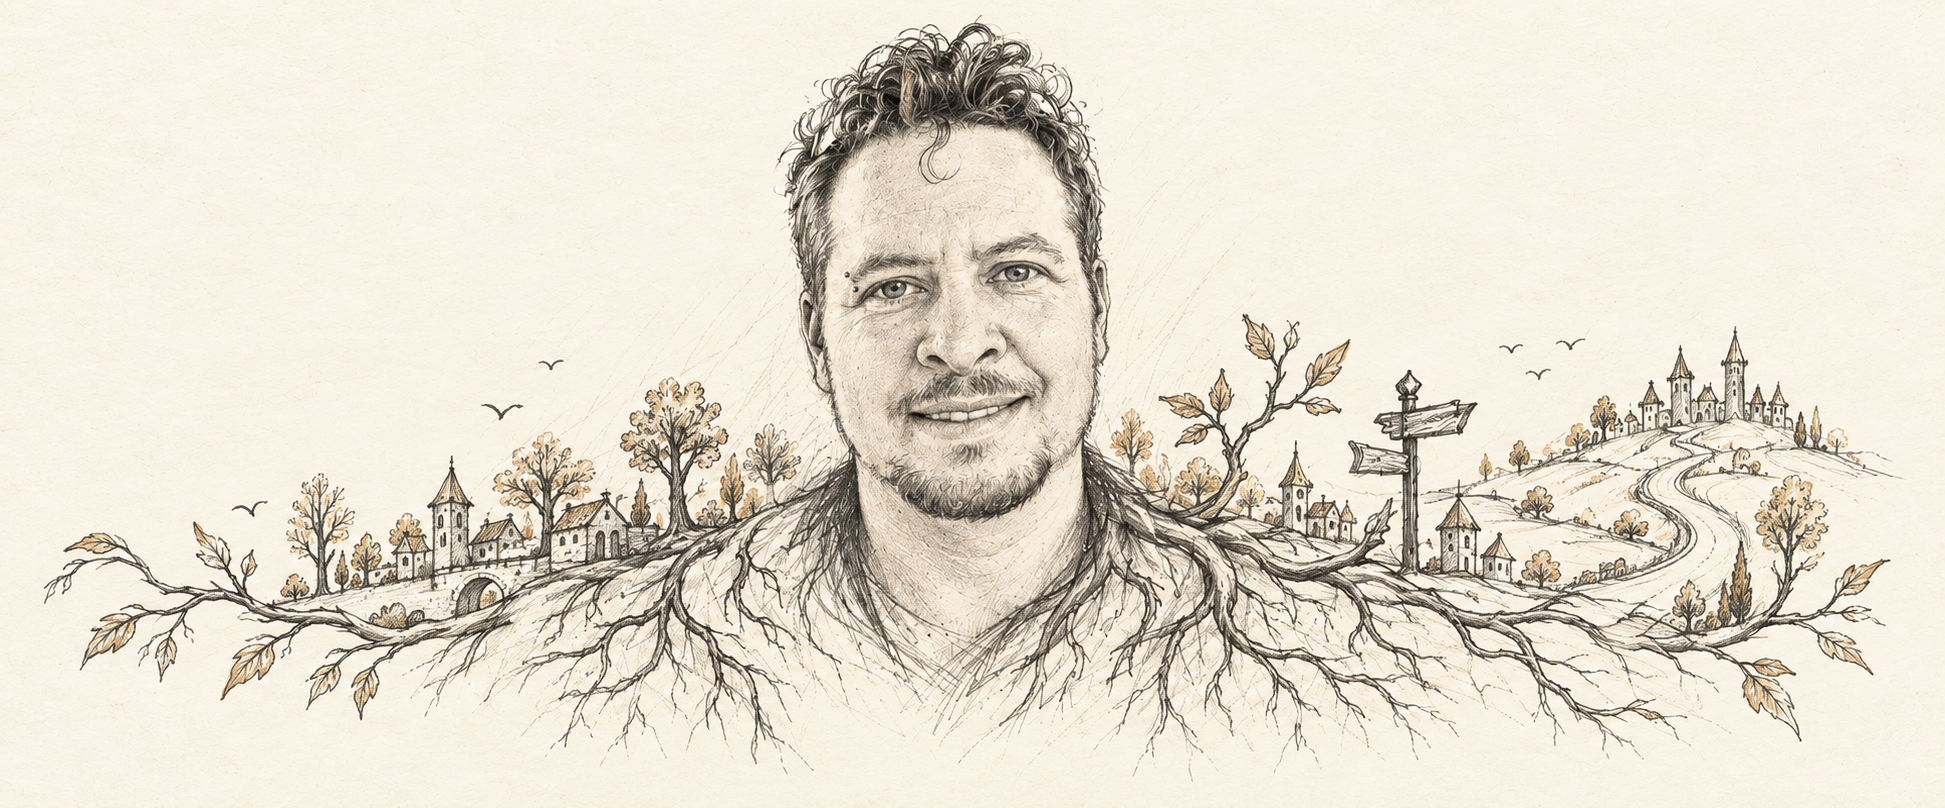
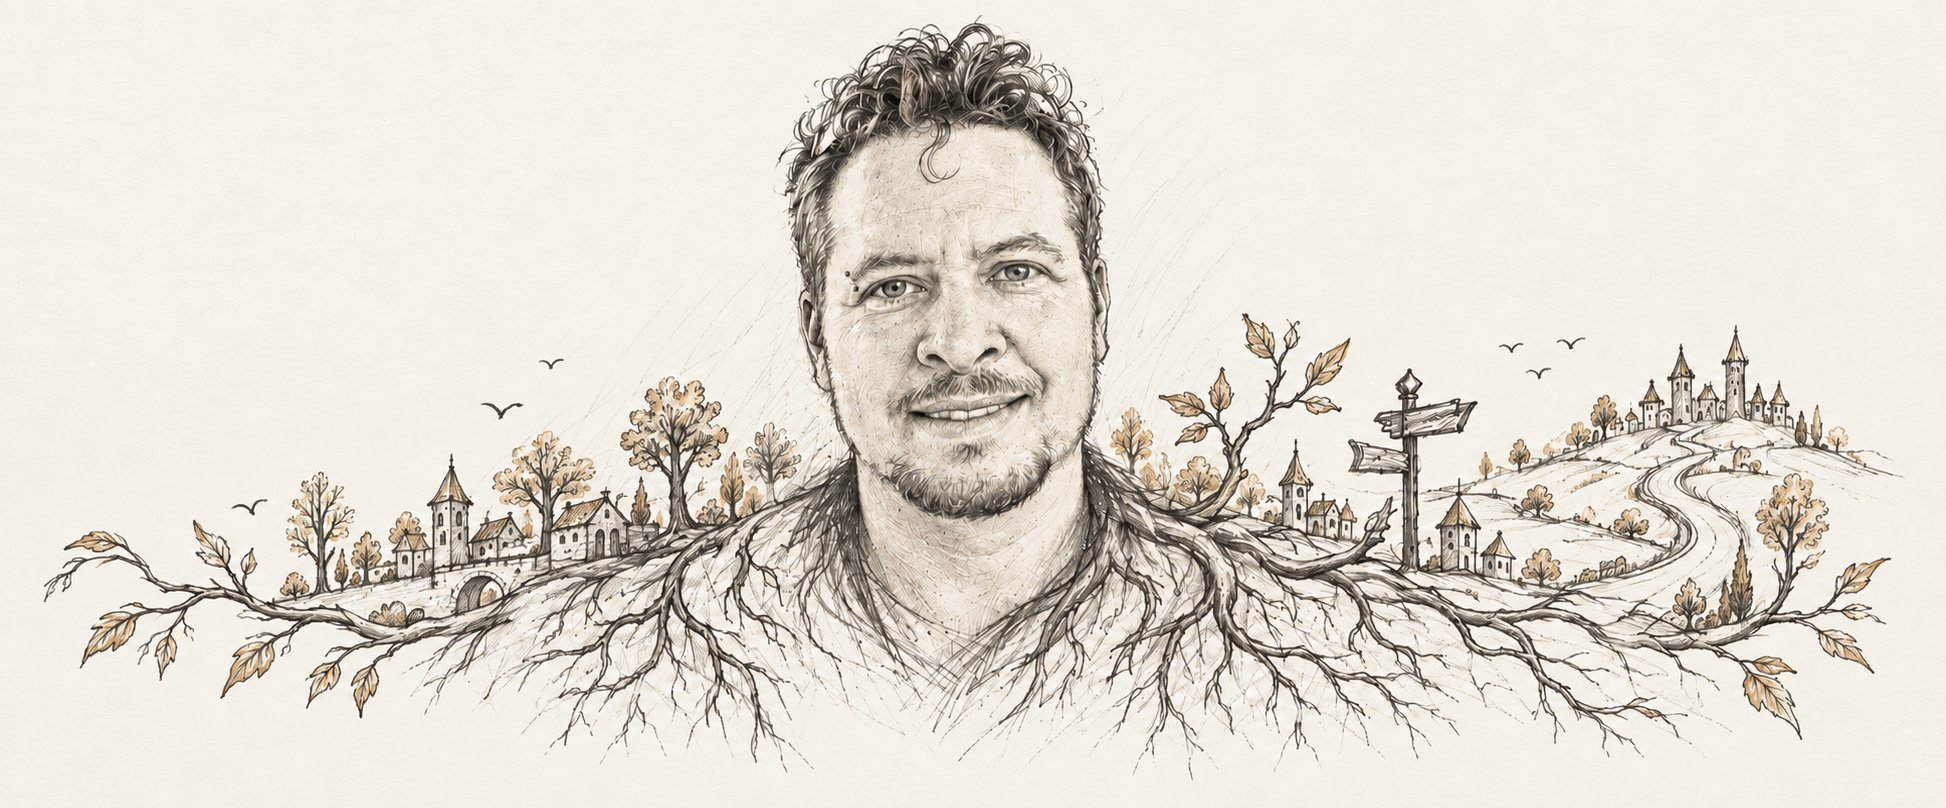
feat: refresh portfolio project art

Changed region(s): [[0.0308, 0.0309, 0.9871, 0.9282], [0.2468, 0.495, 0.2776, 0.526], [0.0, 0.7116, 0.0308, 0.7426]]

diff --git a/index.html b/index.html
@@ -28,7 +28,7 @@
         <a class="text-link" href="cv/index.html">CV <span aria-hidden="true">↗</span></a>
       </div>
       <figure class="hero-art">
-        <img src="assets/vincent-sketch-wide.png" alt="Graphite portrait of Vincent growing into tree roots, roads, and a small medieval city" width="1920" height="768" fetchpriority="high">
+        <img src="assets/vincent-sketch-wide.png" alt="Graphite portrait of Vincent growing into tree roots, roads, and a small medieval city" width="1946" height="808" fetchpriority="high">
       </figure>
     </section>
 
@@ -43,7 +43,7 @@
           <a href="groot/">
             <div class="software-project__meta"><span>01</span><span>Groot</span></div>
             <div class="software-project__copy"><h3>Groot</h3><p>A small system for turning effort into something you can see.</p><span class="project-link">Open project ↗</span></div>
-            <figure class="software-project__visual"><img src="assets/groot-growth-rings.png" alt="Groot growth rings interface" loading="lazy"></figure>
+            <figure class="software-project__visual"><img src="assets/groot-banner.png" alt="Abstracted Groot workout and habit dashboard in forest green and amber" loading="lazy"></figure>
           </a>
         </article>
 
@@ -51,7 +51,7 @@
           <a href="uermend/">
             <div class="software-project__meta"><span>02</span><span>Uermend</span></div>
             <div class="software-project__copy"><h3>Uermend</h3><p>A city builder about roads, resources, and the places they make.</p><span class="project-link">Open project ↗</span></div>
-            <figure class="software-project__visual"><img src="assets/uermend-builder-detail.png" alt="Uermend builder interface showing a settlement detail" loading="lazy"></figure>
+            <figure class="software-project__visual"><img src="assets/uermend-banner.png" alt="Snowy Uermend settlement with roads, houses, lanterns, and a river" loading="lazy"></figure>
           </a>
         </article>
 
@@ -59,7 +59,7 @@
           <a href="qubit/">
             <div class="software-project__meta"><span>03</span><span>Qubit</span></div>
             <div class="software-project__copy"><h3>Qubit</h3><p>A desktop control room for servers, files, and the media around them.</p><span class="project-link">Open project ↗</span></div>
-            <figure class="software-project__visual software-project__visual--qubit"><img src="assets/qubit-icon.png" alt="Qubit icon" loading="lazy"></figure>
+            <figure class="software-project__visual software-project__visual--qubit"><img src="assets/qubit-banner.png" alt="Qubit control room with file lists, media thumbnails, and server status panels" loading="lazy"></figure>
           </a>
         </article>
 
@@ -67,7 +67,7 @@
           <a href="vindicator/">
             <div class="software-project__meta"><span>04</span><span>Vindicator</span></div>
             <div class="software-project__copy"><h3>Vindicator</h3><p>A space strategy game where fleets are only half the problem.</p><span class="project-link">Open project ↗</span></div>
-            <figure class="software-project__visual"><img src="assets/vindicator-blackhole.png" alt="Vindicator black hole system artwork" loading="lazy"></figure>
+            <figure class="software-project__visual"><img src="assets/vindicator-banner.png" alt="Vindicator science-fiction capital with a central golden axis" loading="lazy"></figure>
           </a>
         </article>
       </div>

diff --git a/portfolio.css b/portfolio.css
@@ -50,7 +50,7 @@ h1 em { display: block; color: var(--orange); font-weight: 500; }
 .text-link { display: inline-block; margin-top: 1.3rem; color: var(--blue); font: .74rem var(--mono); text-decoration-thickness: 1px; text-underline-offset: .3rem; }
 .text-link:hover { color: var(--orange); }
 .hero-art { position: relative; z-index: 0; width: min(100%, 78rem); margin: -5.5rem 0 0 auto; }
-.hero-art img { width: 100%; height: auto; mix-blend-mode: multiply; }
+.hero-art img { width: 100%; height: auto; mix-blend-mode: multiply; filter: saturate(.9); }
 
 .software { padding-top: clamp(2rem, 4vw, 4rem); }
 .section-heading { display: grid; grid-template-columns: 1fr 2fr; gap: 2rem; align-items: end; padding-block: 1rem; border-top: 1px solid var(--rule); }
@@ -68,10 +68,10 @@ h1 em { display: block; color: var(--orange); font-weight: 500; }
 .software-project__visual { display: flex; justify-content: center; align-items: center; height: 8.4rem; margin: 0; overflow: hidden; background: var(--navy); }
 .software-project__visual img { width: 100%; height: 100%; object-fit: cover; }
 .software-project__visual--qubit { background: #0e1826; }
-.software-project__visual--qubit img { width: 7rem; height: 7rem; object-fit: contain; }
+.software-project__visual--qubit img { width: 100%; height: 100%; object-fit: cover; }
 .software-project--groot .software-project__meta { color: var(--orange); }
 .software-project--groot .software-project__visual { background: #e2ddce; }
-.software-project--groot .software-project__visual img { object-fit: contain; }
+.software-project--groot .software-project__visual img { object-fit: cover; }
 .software-project--uermend .software-project__meta { color: var(--blue); }
 .software-project--uermend .software-project__visual { background: #27282a; }
 .software-project--qubit .software-project__meta { color: var(--gold); }
